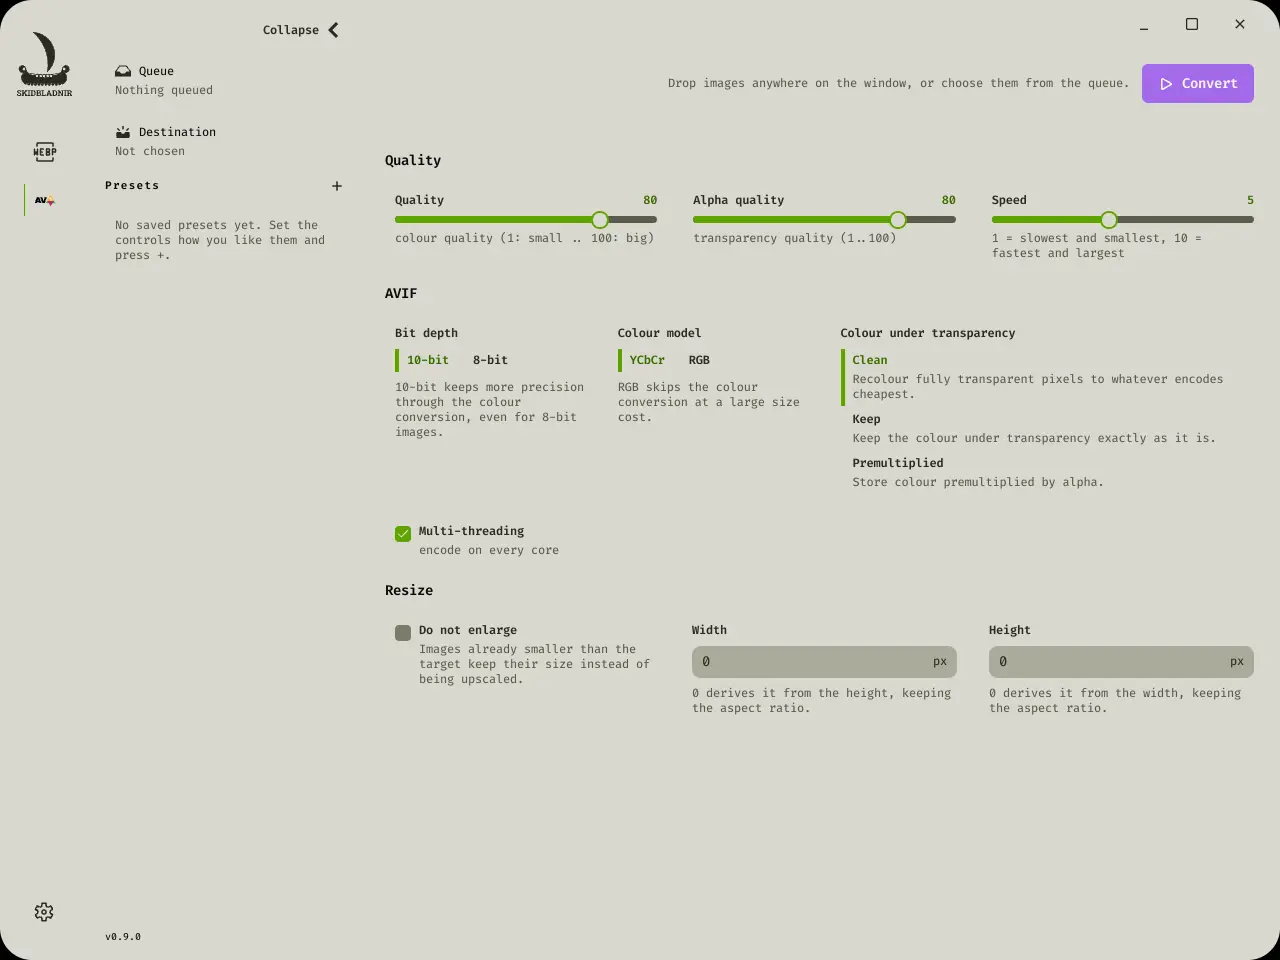
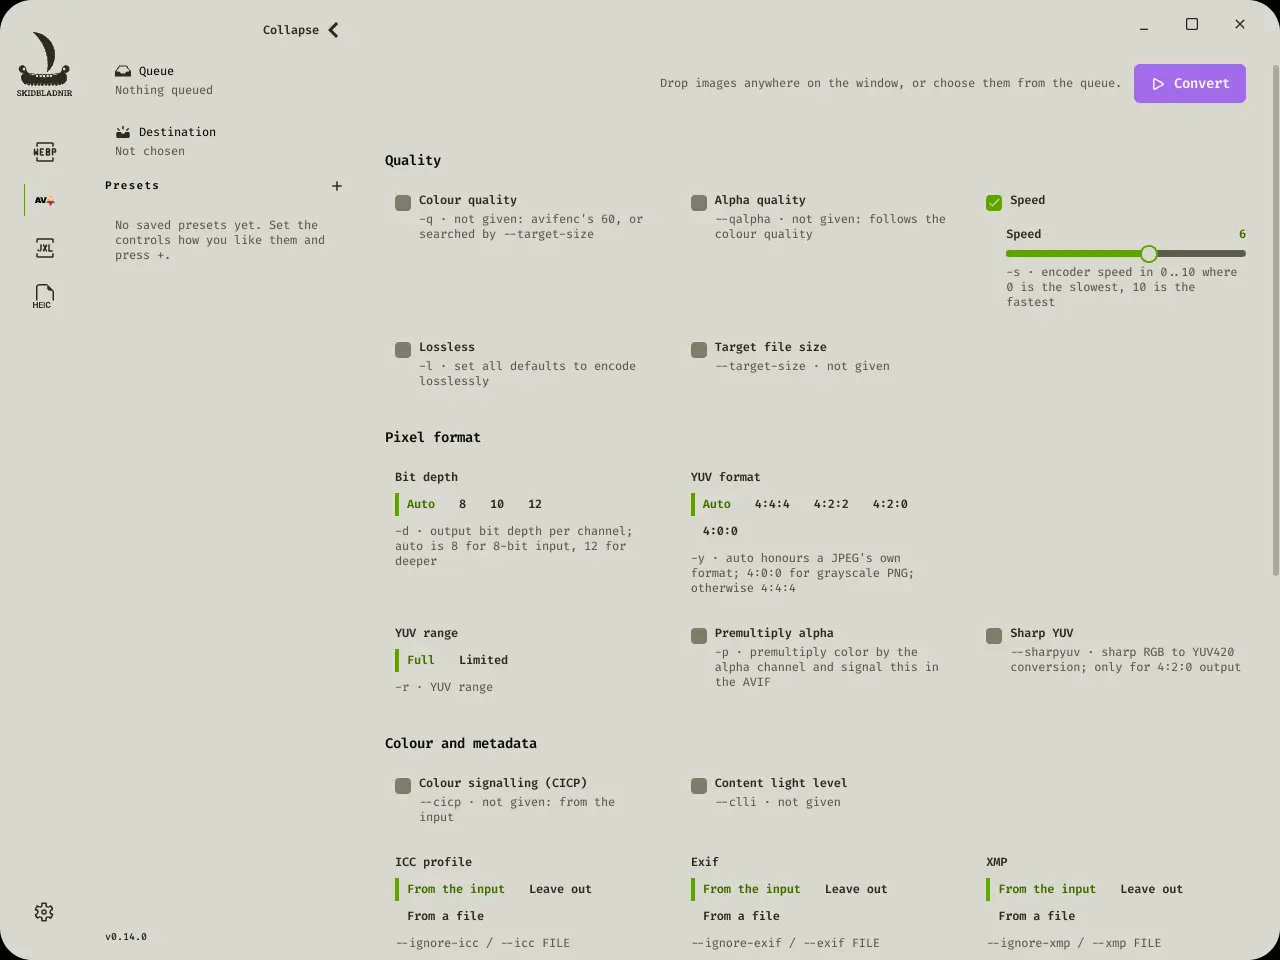
docs: the README screenshots show the per-flag panels of 0.14.0
Captured by CI's window job on 03a328e and encoded with cwebp at the app's defaults.

diff --git a/README.md b/README.md
@@ -11,14 +11,14 @@ control in the window, labelled with the flag it sets, and tests run the real to
 compare the bytes. What that covers and where it stops is spelled out under
 [What "every option" means](#what-every-option-means).
 
-![The Skidbladnir window with WebP selected: the format rail, the queue, destination and presets sidebar, and the mode, quality, resize and advanced encoder controls, with a preview of the result beside the original](resources/images/screenshot.webp)
+![The Skidbladnir window with WebP selected: the format rail, the queue, destination and presets sidebar, and every cwebp option as a control labelled with its flag — compression, targets, presets and lossless levels, transparency, lossy tuning, metadata, performance, crop and resize — with a preview of the result beside the original](resources/images/screenshot.webp)
 
-*WebP selected, with a file previewed.*
+*WebP selected, with a file previewed: every `cwebp` option, each labelled with its flag.*
 
 <details>
 <summary>With AVIF selected</summary>
 
-![The Skidbladnir window with AVIF selected: quality, alpha quality and speed, then bit depth, colour model, colour under transparency and multi-threading, and the shared resize controls](resources/images/screenshot-avif.webp)
+![The Skidbladnir window with AVIF selected: avifenc's options as controls labelled with their flags — colour and alpha quality, speed, lossless and target size, then bit depth, YUV format and range, premultiplied alpha and sharp YUV, then colour signalling, content light level, and the ICC profile, Exif and XMP taken from the input, left out or read from a file](resources/images/screenshot-avif.webp)
 
 </details>
 
